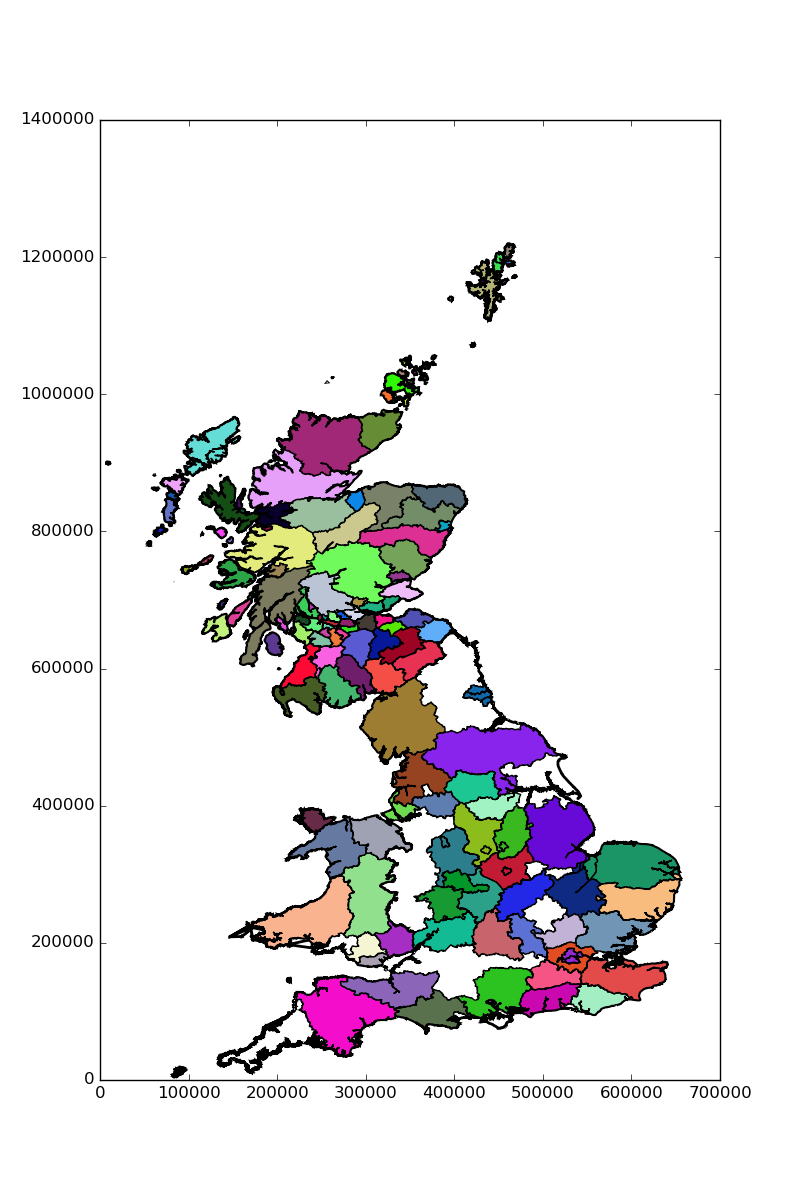
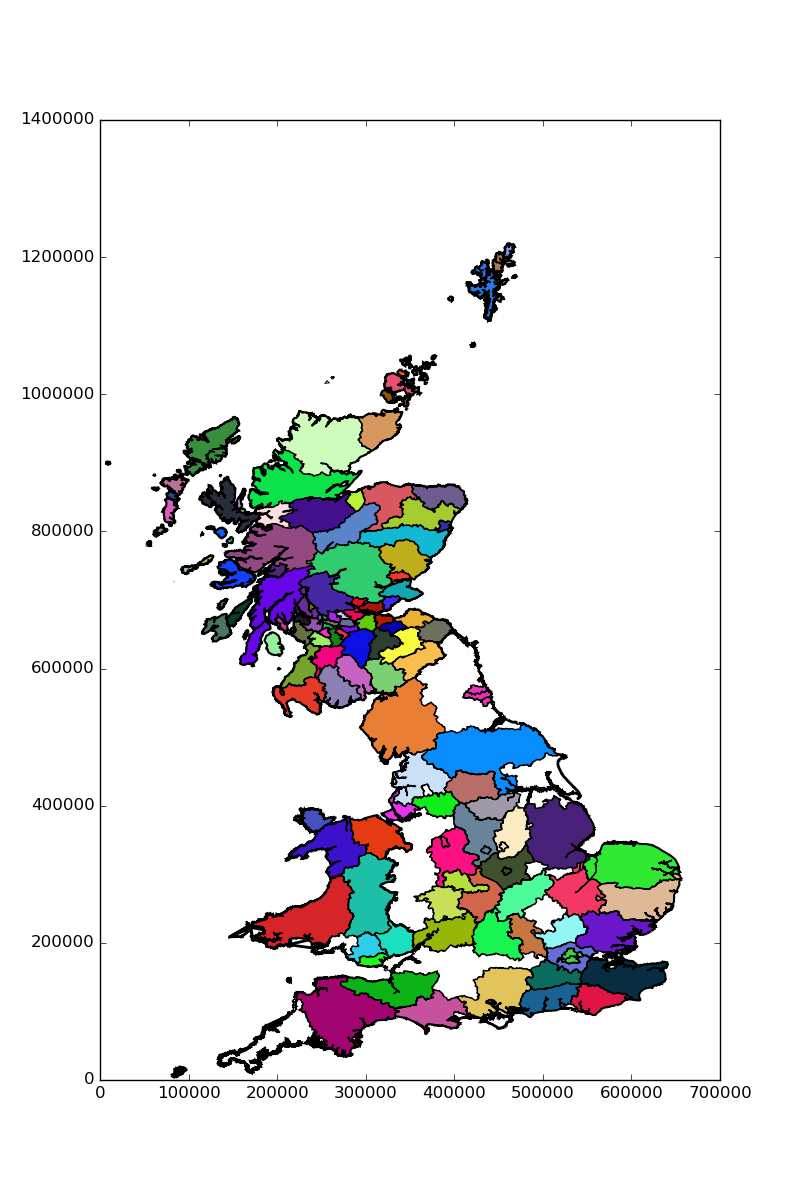
Remove non-clipped option
The non-clipped is slow, and adds little detail at the level that the
project is currently at. This retains all the functionality should we
decide to reimplement it, but for now clipped=True for all.

Changed region(s): [[0.2188, 0.3083, 0.8438, 0.8942], [0.5938, 0.2158, 0.625, 0.2467], [0.1875, 0.4008, 0.2188, 0.4317]]

diff --git a/pymapgb.py b/pymapgb.py
@@ -16,13 +16,9 @@ def DownloadData():
             os.makedirs(dir)
 
     base_url = "http://census.edina.ac.uk/ukborders/easy_download/prebuilt/shape/"
-    files_list = ["England_ct_2011.tar.gz",
-                  "England_ct_2011_gen_clipped.tar.gz",
-                  "England_ol_2011.tar.gz",
+    files_list = ["England_ct_2011_gen_clipped.tar.gz",
                   "England_ol_2011_gen_clipped.tar.gz",
-                  "Wales_ct_1991.tar.gz",
                   "Wales_ct_1991_gen3.tar.gz",
-                  "Wales_ol_2011.tar.gz",
                   "Wales_ol_2011_gen_clipped.tar.gz",
                   "Scotland_dt_1991.tar.gz",
                   "Scotland_ol_1991.tar.gz",
@@ -40,15 +36,15 @@ def DownloadData():
 
 
 class GBBasemap(object):
-    def __init__(self, ax=None, clipped=False, threshold=None):
+    def __init__(self, ax=None, threshold=None):
         if ax is None:
             ax = plt.subplot(111, aspect="equal")
         self.shape_dir = "shape_files"
         self.ax = ax
-        self.clipped = clipped
+        self.clipped = True
 
         if threshold is None:
-            if clipped:
+            if self.clipped:
                 self.threshold = 50
             else:
                 self.threshold = 500
@@ -119,17 +115,11 @@ class GBBasemap(object):
         if self.clipped:
             key = key + "_clipped"
         dictionary = {
-            'england_outline': 'England_ol_2011.shp',
             'england_outline_clipped': 'England_ol_2011_gen_clipped.shp',
-            'england_counties': 'england_ct_2011.shp',
             'england_counties_clipped': 'england_ct_2011_gen_clipped.shp',
-            'wales_outline':  'Wales_ol_2011.shp',
             'wales_outline_clipped':  'Wales_ol_2011_gen_clipped.shp',
-            'wales_counties':  'Wales_ct_1991_area.shp',
             'wales_counties_clipped':  'Wales_ct_1991_gen3_area.shp',
-            'scotland_outline': 'Scotland_ol_1991_area.shp',
             'scotland_outline_clipped': 'Scotland_ol_1991_area.shp',
-            'scotland_counties': 'Scotland_dt_1991_area.shp',
             'scotland_counties_clipped': 'Scotland_dt_1991_area.shp',
             }
 

diff --git a/demo.py b/demo.py
@@ -3,7 +3,7 @@ from pymapgb import GBBasemap
 
 fig, ax = plt.subplots(figsize=(8, 12))
 
-GBmap = GBBasemap(ax, clipped=True)
+GBmap = GBBasemap(ax)
 GBmap.draw_country(["england", "wales"], color="w", linewidth=2, edgecolor="k")
 GBmap.draw_country("scotland", color="w", linewidth=2, edgecolor="k")
 GBmap.draw_counties_for_country(["scotland", "wales", "england"])
